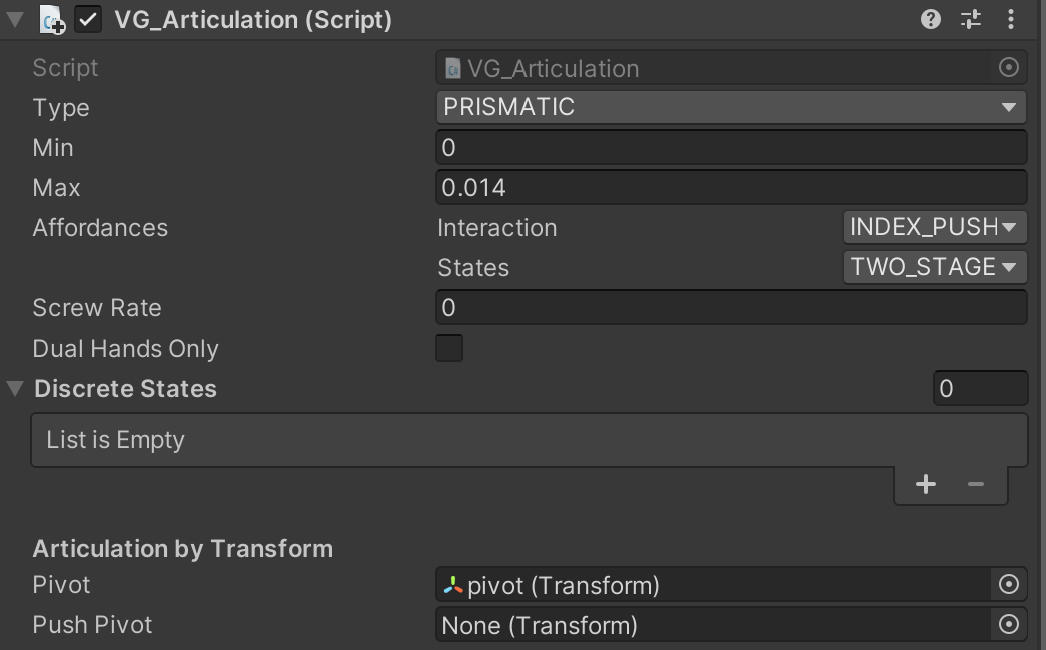
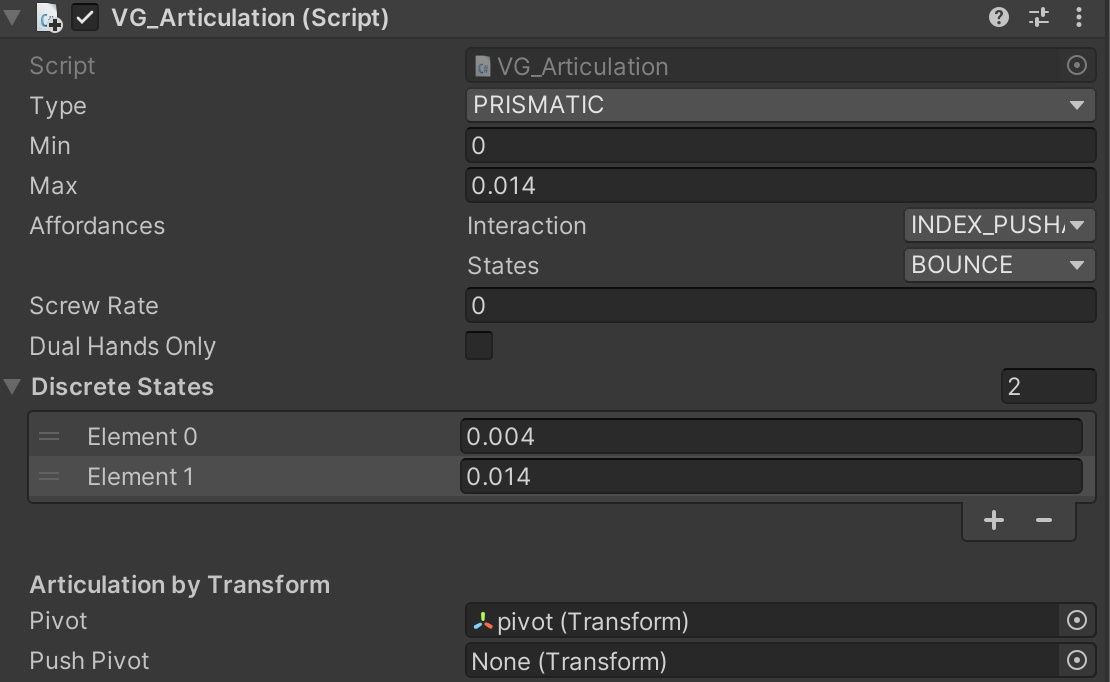
further editing

diff --git a/pages/knowledge/object_articulation.md b/pages/knowledge/object_articulation.md
@@ -43,6 +43,23 @@ For any joint type, there are a set of parameters to be used to configure the jo
 | Joint Center | around which position an object is rotating around, specified by the **Pivot** transform's position | E.g. for cone joint, object will rotate round this point | 
 | Joint Axis | what is the joint axis, specified by the **Pivot** transform's Zaxs | E.g. for prismatic joint, object will move linearly along this axis | 
 
+### Joint State
+
+If an object has an 1-dof joint, then its complete pose can be determined by a combination of 
+* its joint configuration (defined by a set of parameters shown in above table) 
+* and a single scalar value -- <a href="#" data-toggle="tooltip" data-original-title="{{site.data.glossary.JointState}}">Joint State</a>. 
+
+The table below gives some example values of joint state to further clarify its meaning:
+
+| Joint State | Revolute | Prismatic|
+|-------|--------|---------|
+| 0 | zero pose (initial pose) | zero pose (initial pose) |
+| 2.5 (a random value as an example) | 2.5 (degree) rotated around joint axis (follow right-hand rule) from the zero pose | 2.5 (meter, in Unity) translated along joint axis direction from the zero pose |
+| -2.5 (a random value as an example) | -2.5 (degree) rotated around joint axis (follow right-hand rule) from the zero pose | -2.5 (meter, in Unity) translated along joint axis direction from the zero pose |
+
+{% include tip.html content="Note that the joint limit [Min, Max] is essentially the limit range of the Joint State." %}
+
+
 ### Pivot vs. Push Pivot
 
 As shown in the joint parameter table above, an object's joint parameter need to specify its joint center point and joint axis. 
@@ -64,16 +81,15 @@ The effect of this push pivot is to say: your finger is not allowed to push the 
 
 In VG library we define a “narrower” sensed set of affordances that determines which kind of hand **interaction** we can have with this object, and how the object's **state** react in the virtual environment. 
 
-
 | Affordances | Description | Object Joint Settings |
 |-------|--------|---------|
-| Graspable | **Interaction**: Can be grasped | for all joint types | 
-| Index Pushable | **Interaction**: Can be pushed by the index finger | for all joint types | 
+| Graspable | <a href="#" data-toggle="tooltip" data-original-title="{{site.data.glossary.InteractionAffordance}}">Interaction Affordance</a>: Can be grasped | for all joint types | 
+| Index Pushable | <a href="#" data-toggle="tooltip" data-original-title="{{site.data.glossary.InteractionAffordance}}">Interaction Affordance</a>: Can be pushed by the index finger | for all joint types | 
 |-------|--------|---------|
-| Normal | **State**: Object stay at the pose when hand is released  | for all joint types| 
-| Bounces | **State**: When released, bounce to the lowest discrete state | for 1-dof joint | 
-| Bounces two stage | **State**: When released, bounce to the highest and lowest discrete state in an alternating order | for 1-dof joint | 
-| Snaps | **State**: When released, snap to the closest discrete state | for 1-dof joint | 
+| Normal | <a href="#" data-toggle="tooltip" data-original-title="{{site.data.glossary.StateAffordance}}">State Affordance</a>: Object stay at the pose when hand is released  | for all joint types| 
+| Bounce | <a href="#" data-toggle="tooltip" data-original-title="{{site.data.glossary.StateAffordance}}">State Affordance</a>: When released, bounce to the lowest discrete state | for 1-dof joint | 
+| Two Stage | <a href="#" data-toggle="tooltip" data-original-title="{{site.data.glossary.StateAffordance}}">State Affordance</a>: When released, bounce to the highest and lowest discrete state in an alternating order | for 1-dof joint | 
+| Snaps | <a href="#" data-toggle="tooltip" data-original-title="{{site.data.glossary.StateAffordance}}">State Affordance</a>: When released, snap to the closest discrete state | for 1-dof joint | 
 
 ### Dual Hands Only
 
